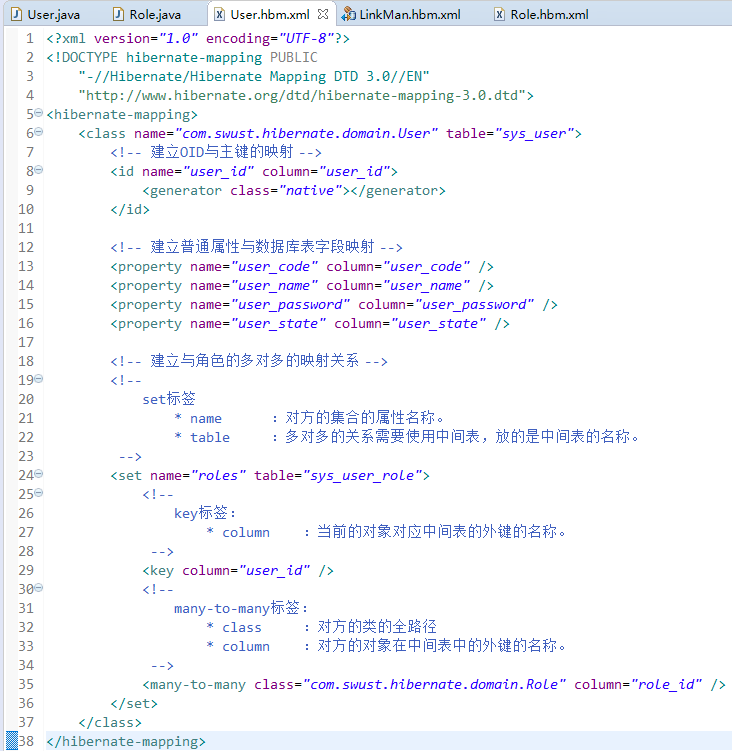
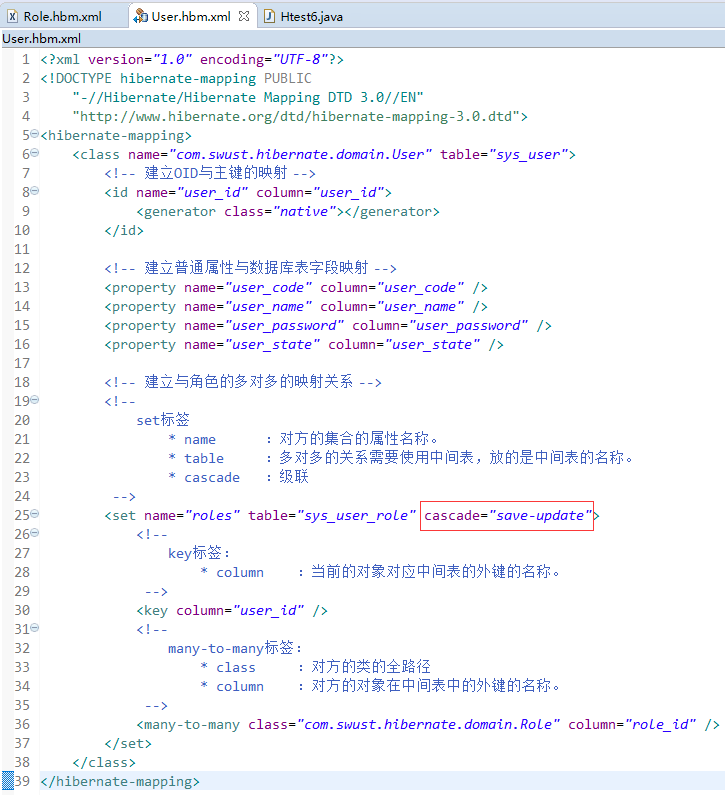
hibernate

Changed region(s): [[0.0, 0.0, 1.0, 1.0], [0.88, 0.8881, 1.0, 0.9188], [0.789, 0.8881, 0.8497, 0.9188]]

diff --git a/06-Hibernate框架/03_hibernate.md b/06-Hibernate框架/03_hibernate.md
@@ -101,3 +101,43 @@
 
 ![icon](img/03-img16-hibernate.png)       
    
+* 多对多测试
+
+![icon](img/03-img17-hibernate.png)      
+   
+  
+### Hibernate的多对多的操作
+只保存一边是否可以（不可以）（瞬时对象异常）（使用级联解决）   
+   
+
+### Hibernate的多对多级联保存  
+   
+保存用户级联保存角色   
+
+![icon](img/03-img18-hibernate.png)     
+   
+保存角色级联保存用户  
+  
+![icon](img/03-img19-hibernate.png)   
+      
+
+### 多对多的级联删除（基本用不上）   
+    
+删除用户级联删除角色   
+   
+![icon](img/03-img20-hibernate.png)   
+   
+删除角色级联删除用户  
+   
+![icon](img/03-img21-hibernate.png)   
+   
+### 多对多的其他的操作   
+
+给用户添加角色   
+   
+![icon](img/03-img22-hibernate.png)   
+   
+给用户改选角色（删除就只有remove，不添加）   
+   
+![icon](img/03-img23-hibernate.png)   
+   
